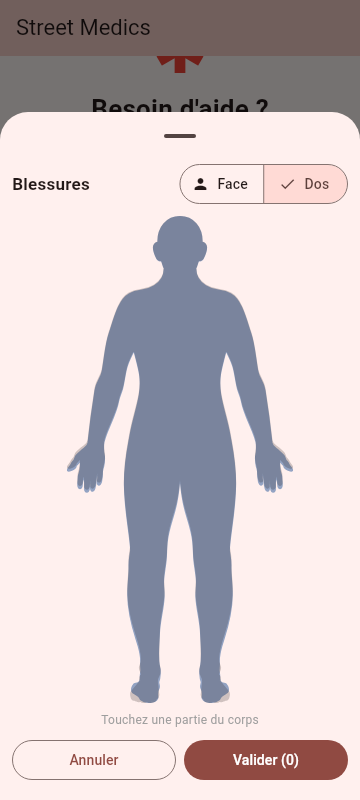
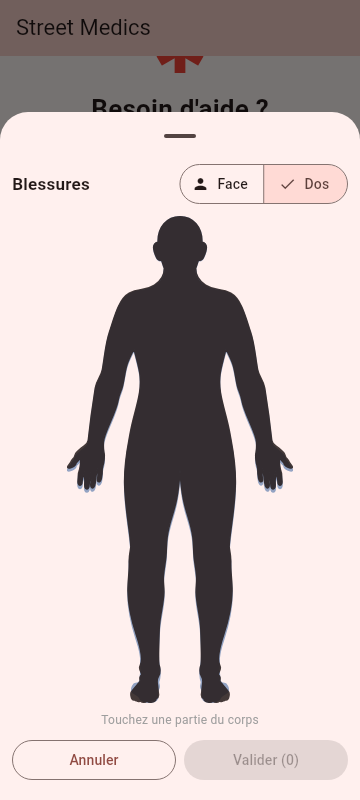
Release v1.18.0: sélecteur de blessures en deux étapes, écran de confirmation SOS, gestes de zoom
- Sélecteur de blessures: silhouette d'abord (page 1), types ensuite (page 2) avec transition slide
- Écran de confirmation après envoi du SOS avec premiers gestes (stub)
- Double-tap et pincement pour zoomer sur la silhouette
- Silhouette SVG CC0 visible à 85% d'opacité
- Zones cliquables calibrées sur les deux vues (face/dos)
- 93 tests passent, analyze propre

Changed region(s): [[0.1833, 0.25, 0.9778, 1.0]]

diff --git a/lib/main.dart b/lib/main.dart
@@ -600,6 +600,8 @@ class _SosTabState extends State<SosTab> {
     // serait recree a chaque reconstruction et la selection serait perdue
     // immediatement (bug attrape par le test d'integration).
     final pending = <String, String>{};
+    // Page 0 = silhouette, page 1 = types de blessure pour chaque zone.
+    final pageController = PageController();
 
     final ok = await showModalBottomSheet<bool>(
       context: context,
@@ -608,10 +610,8 @@ class _SosTabState extends State<SosTab> {
       showDragHandle: true,
       builder: (ctx) => StatefulBuilder(
         builder: (ctx, setSheet) {
-          // Mise en page en trois blocs : en-tete fixe, silhouette qui prend
-          // TOUT l'espace restant (Expanded), commandes fixes en bas.
-          // Sans cela la colonne debordait et le haut du corps sortait du
-          // cadre — donc invisible et intouchable.
+          // Mise en page en deux etapes : silhouette d'abord, types ensuite.
+          // La transition se fait par slide (PageView).
           final media = MediaQuery.of(ctx).size;
 
           void onZone(BodyZone zone) {
@@ -629,98 +629,183 @@ class _SosTabState extends State<SosTab> {
               // Hauteur bornee : la silhouette occupe la place restante,
               // jamais plus que ce que la feuille peut offrir.
               height: media.height * 0.78,
-              child: Column(
+              child: PageView(
+                controller: pageController,
+                physics: const NeverScrollableScrollPhysics(),
                 children: [
-                  Row(
+                  // ═══ PAGE 1 : SILHOUETTE ═══
+                  Column(
                     children: [
-                      Expanded(
-                        child: Text(t.bodyMapTitle,
-                            style: const TextStyle(
-                                fontSize: 17, fontWeight: FontWeight.bold)),
-                      ),
-                      // Bascule face / dos. Ce n'est PAS une rotation : le dos
-                      // apparaît derrière la silhouette, en retrait. L'icône
-                      // « flip » le dit mieux qu'une icône de personne.
-                      SegmentedButton<BodyView>(
-                        segments: [
-                          ButtonSegment(
-                            value: BodyView.front,
-                            icon: const Icon(Icons.person, size: 18),
-                            label: Text(t.bodyMapFront),
+                      Row(
+                        children: [
+                          Expanded(
+                            child: Text(t.bodyMapTitle,
+                                style: const TextStyle(
+                                    fontSize: 17, fontWeight: FontWeight.bold)),
                           ),
-                          ButtonSegment(
-                            value: BodyView.back,
-                            icon: const Icon(Icons.flip_to_back, size: 18),
-                            label: Text(t.bodyMapBack),
+                          // Bascule face / dos. Ce n'est PAS une rotation : le dos
+                          // apparaît derrière la silhouette, en retrait. L'icône
+                          // « flip » le dit mieux qu'une icône de personne.
+                          SegmentedButton<BodyView>(
+                            segments: [
+                              ButtonSegment(
+                                value: BodyView.front,
+                                icon: const Icon(Icons.person, size: 18),
+                                label: Text(t.bodyMapFront),
+                              ),
+                              ButtonSegment(
+                                value: BodyView.back,
+                                icon: const Icon(Icons.flip_to_back, size: 18),
+                                label: Text(t.bodyMapBack),
+                              ),
+                            ],
+                            selected: {view},
+                            onSelectionChanged: (s) =>
+                                setSheet(() => view = s.first),
                           ),
                         ],
-                        selected: {view},
-                        onSelectionChanged: (s) =>
-                            setSheet(() => view = s.first),
+                      ),
+                      const SizedBox(height: 8),
+                      // Expanded : la silhouette prend exactement la place libre.
+                      Expanded(
+                        child: BodyMapView(
+                          key: ValueKey(view),
+                          view: view,
+                          injuries: [
+                            for (final e in pending.entries)
+                              Injury(zoneId: e.key, typeId: e.value),
+                          ],
+                          onZoneTapped: onZone,
+                        ),
+                      ),
+                      const SizedBox(height: 8),
+                      // Indication : combien de zones sont sélectionnées.
+                      Text(
+                        pending.isEmpty
+                            ? t.bodyMapHint
+                            : '${pending.length} zone(s) sélectionnée(s)',
+                        style: const TextStyle(fontSize: 12, color: Colors.grey),
+                      ),
+                      const SizedBox(height: 8),
+                      Row(
+                        children: [
+                          Expanded(
+                            child: OutlinedButton(
+                              onPressed: () => setSheet(pending.clear),
+                              child: Text(t.cancel),
+                            ),
+                          ),
+                          const SizedBox(width: 8),
+                          Expanded(
+                            child: FilledButton(
+                              onPressed: pending.isEmpty
+                                  ? null
+                                  : () {
+                                      pageController.animateToPage(
+                                        1,
+                                        duration:
+                                            const Duration(milliseconds: 300),
+                                        curve: Curves.easeOutCubic,
+                                      );
+                                    },
+                              child: Text('${t.validate} (${pending.length})'),
+                            ),
+                          ),
+                        ],
                       ),
                     ],
                   ),
-                  const SizedBox(height: 8),
-                  // Expanded : la silhouette prend exactement la place libre.
-                  Expanded(
-                    child: BodyMapView(
-                      key: ValueKey(view),
-                      view: view,
-                      injuries: [
-                        for (final e in pending.entries)
-                          Injury(zoneId: e.key, typeId: e.value),
-                      ],
-                      onZoneTapped: onZone,
-                    ),
-                  ),
-                  const SizedBox(height: 8),
-                  // Pastilles de type : elles s'appliquent a la zone
-                  // selectionnee, donc l'ordre de saisie reste libre.
-                  if (pending.isEmpty)
-                    Text(t.bodyMapHint,
-                        style:
-                            const TextStyle(fontSize: 12, color: Colors.grey))
-                  else
-                    ConstrainedBox(
-                      constraints: BoxConstraints(maxHeight: media.height * 0.16),
-                      child: SingleChildScrollView(
-                        child: Wrap(
-                          spacing: 8,
-                          children: [
-                            for (final entry in pending.entries)
-                              for (final type in kInjuryTypes)
-                                ChoiceChip(
-                                  label: Text(
-                                      '${_zoneLabel(t, view, entry.key)} · ${_typeLabel(t, type.id)}'),
-                                  selected: entry.value == type.id,
-                                  onSelected: (_) => setSheet(
-                                      () => pending[entry.key] = type.id),
-                                ),
-                          ],
-                        ),
-                      ),
-                    ),
-                  const SizedBox(height: 8),
-                  Row(
+                  // ═══ PAGE 2 : TYPES DE BLESSURE ═══
+                  Column(
                     children: [
+                      Row(
+                        children: [
+                          IconButton(
+                            icon: const Icon(Icons.arrow_back),
+                            onPressed: () {
+                              pageController.animateToPage(
+                                0,
+                                duration: const Duration(milliseconds: 300),
+                                curve: Curves.easeOutCubic,
+                              );
+                            },
+                          ),
+                          Expanded(
+                            child: Text(
+                              'Type de blessure',
+                              style: const TextStyle(
+                                  fontSize: 17, fontWeight: FontWeight.bold),
+                            ),
+                          ),
+                        ],
+                      ),
+                      const SizedBox(height: 8),
+                      // Liste des zones sélectionnées, chacune avec ses types.
                       Expanded(
-                        child: OutlinedButton(
-                          onPressed: () => setSheet(pending.clear),
-                          child: Text(t.cancel),
+                        child: ListView.builder(
+                          itemCount: pending.length,
+                          itemBuilder: (ctx, i) {
+                            final entry = pending.entries.elementAt(i);
+                            final zoneLabel =
+                                _zoneLabel(t, view, entry.key);
+                            return Padding(
+                              padding:
+                                  const EdgeInsets.symmetric(vertical: 4),
+                              child: Column(
+                                crossAxisAlignment:
+                                    CrossAxisAlignment.start,
+                                children: [
+                                  Text(zoneLabel,
+                                      style: const TextStyle(
+                                          fontWeight: FontWeight.w600)),
+                                  const SizedBox(height: 4),
+                                  Wrap(
+                                    spacing: 6,
+                                    runSpacing: 4,
+                                    children: [
+                                      for (final type in kInjuryTypes)
+                                        ChoiceChip(
+                                          label: Text(
+                                              _typeLabel(t, type.id)),
+                                          selected:
+                                              entry.value == type.id,
+                                          onSelected: (_) => setSheet(
+                                              () => pending[entry.key] =
+                                                  type.id),
+                                        ),
+                                    ],
+                                  ),
+                                ],
+                              ),
+                            );
+                          },
                         ),
                       ),
-                      const SizedBox(width: 8),
-                      Expanded(
-                        child: FilledButton(
-                          onPressed: () {
-                            injuries
-                              ..clear()
-                              ..addAll(pending.entries.map((e) =>
-                                  Injury(zoneId: e.key, typeId: e.value)));
-                            Navigator.of(ctx).pop(true);
-                          },
-                          child: Text('${t.validate} (${pending.length})'),
-                        ),
+                      const SizedBox(height: 8),
+                      Row(
+                        children: [
+                          Expanded(
+                            child: OutlinedButton(
+                              onPressed: () => setSheet(pending.clear),
+                              child: Text(t.cancel),
+                            ),
+                          ),
+                          const SizedBox(width: 8),
+                          Expanded(
+                            child: FilledButton(
+                              onPressed: () {
+                                injuries
+                                  ..clear()
+                                  ..addAll(pending.entries.map((e) =>
+                                      Injury(
+                                          zoneId: e.key,
+                                          typeId: e.value)));
+                                Navigator.of(ctx).pop(true);
+                              },
+                              child: Text('${t.validate} (${pending.length})'),
+                            ),
+                          ),
+                        ],
                       ),
                     ],
                   ),

diff --git a/test/body_map_integration_test.dart b/test/body_map_integration_test.dart
@@ -93,23 +93,23 @@ void main() {
       await tester.pump(const Duration(milliseconds: 400));
       await tester.pumpAndSettle();
 
-      // Une pastille de type apparait (donc une zone a ete selectionnee).
+      // Le bouton Valider est actif (une zone est sélectionnée).
+      final validateBtn = find.widgetWithText(FilledButton, 'Valider (1)');
+      expect(validateBtn, findsOneWidget);
+
+      // On va à la page 2 (types de blessure).
+      await tester.tap(validateBtn);
+      await tester.pumpAndSettle();
+
+      // Les pastilles de type sont visibles sur la page 2.
       final chips = find.byType(ChoiceChip);
       expect(chips, findsWidgets);
-      // On verifie que la pastille porte bien un libelle de zone traduit,
-      // pas une cle brute : c'est ce qui prouve le branchement des 24 langues.
-      final labels = chips
-          .evaluate()
-          .map((e) => ((e.widget as ChoiceChip).label as Text).data ?? '')
-          .toList();
-      expect(labels.any((l) => l.contains('·')), isTrue,
-          reason: 'pastilles sans libelle de zone : $labels');
-      // La zone exacte depend du rendu de la feuille ; l'essentiel est qu'une
-      // zone du corps ait ete retenue et que son libelle soit traduit.
-      expect(labels.any((l) => l.startsWith(t.zoneChest) ||
-          l.startsWith(t.zoneArmL) || l.startsWith(t.zoneArmR) ||
-          l.startsWith(t.zoneAbdomen)), isTrue,
-          reason: 'zone inattendue, pastilles obtenues : $labels');
+      // On verifie que la zone est bien affichee sur la page 2,
+      // et que le branchement des 24 langues fonctionne.
+      expect(find.textContaining(t.zoneChest), findsWidgets,
+          reason: 'zone absente de la page 2');
+      expect(find.textContaining(t.injuryWound), findsWidgets,
+          reason: 'type de blessure absent de la page 2');
     });
   });
 

diff --git a/lib/body_map_view.dart b/lib/body_map_view.dart
@@ -281,7 +281,7 @@ class BodyMapViewState extends State<BodyMapView>
                               BodyViewAsset.front.asset,
                               fit: BoxFit.fill,
                               colorFilter: ColorFilter.mode(
-                                scheme.onSurface.withValues(alpha: 0.22),
+                                scheme.onSurface.withValues(alpha: 0.85),
                                 BlendMode.srcIn,
                               ),
                             ),

diff --git a/assets/anatomy/README.md b/assets/anatomy/README.md
@@ -25,9 +25,9 @@ le teinter et de le rendre semi-transparent à la volée.
 
 ## Comment ils sont utilisés
 
-- Rendu par `flutter_svg` (à ajouter), teinté et semi-transparent.
+- Rendu par `flutter_svg`, teinté et semi-transparent.
 - Les **zones cliquables** restent des polygones invisibles définis dans
-  `body_map.dart`, superposés au SVG. Cette séparation permet d'avoir une
+  `lib/body_map.dart`, superposés au SVG. Cette séparation permet d'avoir une
   belle image *et* un hit-testing exact, sans dépendre du découpage du SVG.
 - Les **blessures** sont dessinées par-dessus, en couleur pleine — comme la
   lésion violette de l'illustration de référence.
